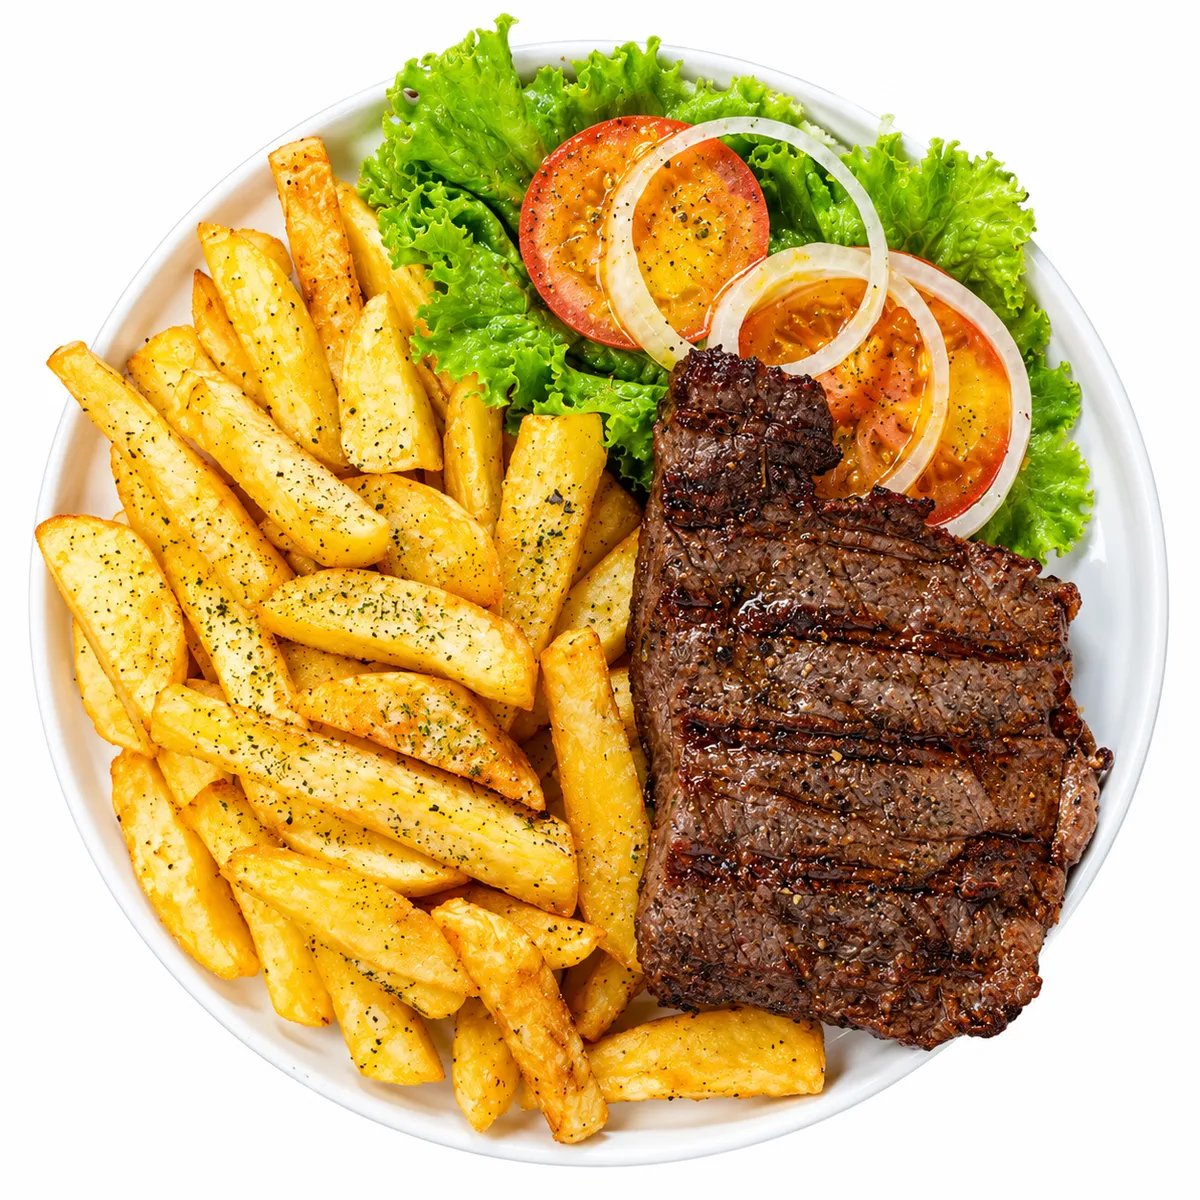
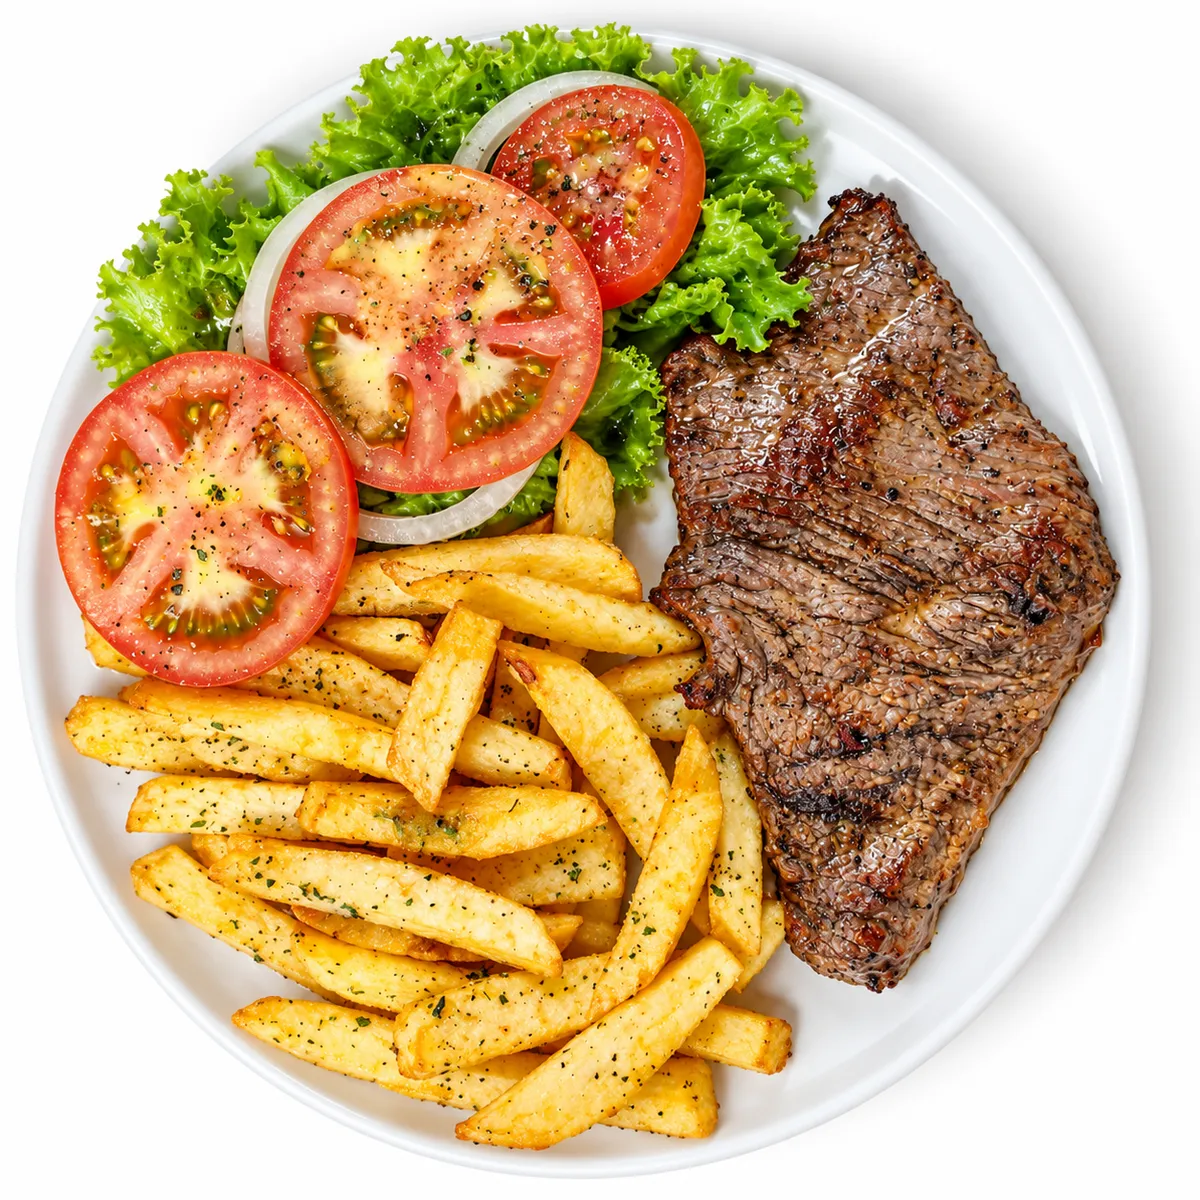
fix: replace grill and steak photos and enlarge salchipapa

diff --git a/css/styles.css b/css/styles.css
@@ -52,6 +52,8 @@ button:focus-visible, a:focus-visible { outline: 3px solid var(--wine-light); ou
 .item-open { position: absolute; z-index: 1; inset: -38px -1px -1px; padding: 0; border: 0; border-radius: inherit; background: transparent; cursor: pointer; }
 .product-visual { position: relative; aspect-ratio: 1; margin: -38px -8px 16px; border-radius: 50%; background: #f1f0ea; }
 .product-visual img { width: 100%; height: 100%; object-fit: contain; border-radius: inherit; filter: drop-shadow(0 9px 7px rgba(38, 36, 22, .12)); }
+.product-visual.has-image-zoom { overflow: hidden; box-shadow: 0 10px 18px #2527201a; }
+.product-visual.has-image-zoom img { border-radius: 0; filter: none; transform: scale(var(--image-zoom)); }
 .menu-item--drink .product-visual { overflow: hidden; border: 5px solid var(--surface); border-radius: 50%; background: var(--surface); box-shadow: 0 10px 18px #2527201a; }
 .menu-item--drink .product-visual img { object-fit: cover; object-position: var(--image-position, 50% 50%); border-radius: 0; filter: none; }
 .photo-placeholder { display: none; position: absolute; inset: 0; align-items: center; justify-content: center; flex-direction: column; gap: 10px; color: #999b8e; font-size: 11px; text-align: center; }

diff --git a/js/app.js b/js/app.js
@@ -160,6 +160,10 @@
     const visual = document.createElement("div");
     visual.className = className;
     if (item.imagePosition) visual.style.setProperty("--image-position", item.imagePosition);
+    if (item.imageZoom) {
+      visual.classList.add("has-image-zoom");
+      visual.style.setProperty("--image-zoom", item.imageZoom);
+    }
     const image = document.createElement("img");
     image.alt = item.name;
     image.loading = className === "detail-visual" ? "eager" : "lazy";
@@ -175,7 +179,7 @@
       image.hidden = true;
       image.removeAttribute("src");
     }, { once: true });
-    image.src = `img/${encodeURIComponent(item.image)}?v=20261028-photos`;
+    image.src = `img/${encodeURIComponent(item.image)}?v=20261028-photos-v2`;
     visual.append(image, placeholder);
     return visual;
   }

diff --git a/index.html b/index.html
@@ -13,9 +13,9 @@
   <link rel="preconnect" href="https://fonts.googleapis.com">
   <link rel="preconnect" href="https://fonts.gstatic.com" crossorigin>
   <link href="https://fonts.googleapis.com/css2?family=Cormorant+Garamond:wght@600;700&family=Jost:wght@300;400;500;600&display=swap" rel="stylesheet">
-  <link rel="stylesheet" href="css/styles.css?v=20261028-availability">
-  <script src="js/menu-data.js?v=20261028-availability" defer></script>
-  <script src="js/app.js?v=20261028-availability" defer></script>
+  <link rel="stylesheet" href="css/styles.css?v=20261028-photos-v2">
+  <script src="js/menu-data.js?v=20261028-photos-v2" defer></script>
+  <script src="js/app.js?v=20261028-photos-v2" defer></script>
 </head>
 <body>
   <main class="page">

diff --git a/js/menu-data.js b/js/menu-data.js
@@ -71,7 +71,8 @@ window.MENU_DATA = [
         price: "3,00",
         description: "Papas fritas · salchicha",
         tag: "Nuevo",
-        image: "salchipapa.webp"
+        image: "salchipapa.webp",
+        imageZoom: 1.14
       }
     ]
   },

diff --git a/README.md b/README.md
@@ -30,11 +30,13 @@ Abre `index.html` en el navegador. Las fotografías que todavía no existan most
 
 El comando corrige la orientación, elimina metadatos y convierte las fotos a WebP. Conserva la proporción original, la transparencia y el plato completo, con un tamaño máximo de 1200 × 1200 px y sin ampliar fotos pequeñas. La fuente `logo-ea.png` conserva su proporción, recibe esquinas transparentes y genera automáticamente el logotipo WebP, el favicon y el icono para dispositivos Apple.
 
-También reconoce `carne a la plancha.png` y `pollo a la plancha.png`, que actualizan `carne-plancha.webp` y `pollo-plancha.webp` sin cambiar las referencias del menú ni del carrito.
+También reconoce `carne a la plancha.png`, `pollo a la plancha.png` y `pollo al grill.png`, que actualizan `carne-plancha.webp`, `pollo-plancha.webp` y `pollo-grill.webp` sin cambiar las referencias del menú ni del carrito.
 
 Para las tarjetas de comida, usa fotos cenitales (desde arriba), con el plato centrado y margen alrededor. Un PNG con fondo transparente permite que el plato destaque sobre la tarjeta. Las fotos actuales son provisionales: el diseño no cambia el ángulo de la fotografía. Las bebidas usan un recorte circular que llena el marco, con borde claro y sombra, sobresaliendo de la tarjeta igual que los platos.
 
 Las fotos se conservan completas para el detalle. En las tarjetas de bebidas puedes ajustar el centro del recorte con el campo opcional `imagePosition` de cada producto, por ejemplo `"25% 50%"` para favorecer el lado izquierdo de la fotografía.
+
+El campo opcional `imageZoom` amplía únicamente la foto en la tarjeta, manteniendo el marco circular. Por ejemplo, la Salchipapa usa `1.14` para ocupar un espacio visual similar al de las papas fritas, conservando el original completo en el detalle.
 
 Si existe el mismo nombre normalizado en ambas carpetas, se usa el original de `img-source/`.
 
